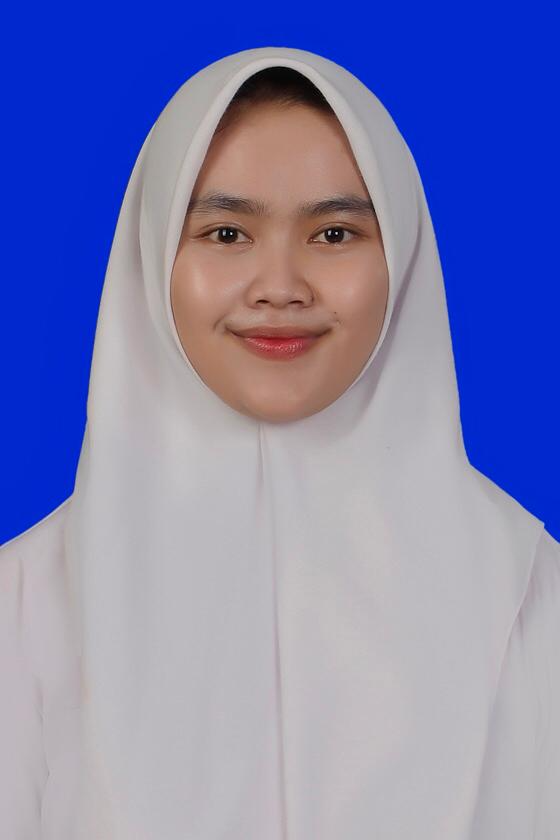
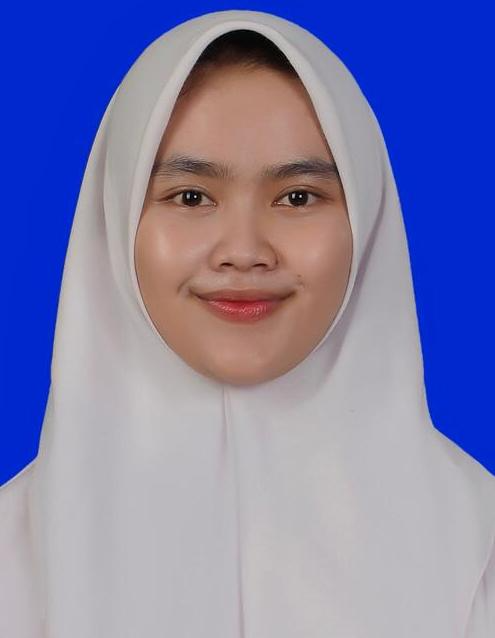
async, await, dan satu try/catch

Changed region(s): [[0.0, 0.0, 1.0, 0.8339], [0.9697, 0.8636, 1.0, 0.9232], [0.4848, 0.9828, 0.5152, 1.0]]

diff --git a/P10-25523222/css/responsif.css b/P10-25523222/css/responsif.css
@@ -1,59 +1,89 @@
+
 /* RESPONSIF.CSS — Pertemuan 6 */
 /* Mobile-first responsive design */
 
-/* Base — Mobile */
-
+/* Tampilan dasar: satu kolom */
 main {
-  grid-template-columns: 1fr;
+  display: grid;
+  grid-template-columns: minmax(0, 1fr);
   width: 100%;
   max-width: 1200px;
+  margin-inline: auto;
   padding: var(--space-4);
+  gap: var(--space-4);
 }
 
 main > section,
 main > article,
 main > aside,
 main > details {
-  min-width: 0;
-  overflow-wrap: anywhere;
-}
-
-.sidebar {
+  box-sizing: border-box;
   width: 100%;
   min-width: 0;
-}
-
-.kartu {
-  width: 100%;
-  max-width: 100%;
-  min-width: 0;
+  overflow-wrap: break-word;
 }
 
 img {
+  display: block;
   max-width: 100%;
   height: auto;
+}
+
+.kepala {
+  box-sizing: border-box;
+  width: 100%;
+}
+
+.kepala nav ul {
+  display: flex;
+  flex-wrap: wrap;
+  gap: var(--space-md);
 }
 
 .foto {
   width: 100%;
   max-width: 480px;
+  margin-inline: auto;
 }
 
 .foto img {
+  display: block;
+  width: 100%;
+  height: auto;
+  object-fit: cover;
+}
+
+.kartu {
+  box-sizing: border-box;
   width: 100%;
   max-width: 100%;
-  height: auto;
+  min-width: 0;
+  overflow-wrap: break-word;
+}
+
+#filter {
+  display: flex;
+  flex-wrap: wrap;
+  gap: var(--space-sm);
+}
+
+#daftar {
+  display: grid;
+  grid-template-columns: minmax(0, 1fr);
+  gap: var(--space-md);
+  padding-left: 1.5rem;
 }
 
 .table-wrap {
   width: 100%;
+  min-width: 0;
   overflow-x: auto;
   -webkit-overflow-scrolling: touch;
 }
 
 table {
   width: 100%;
-  max-width: 100%;
+  border-collapse: collapse;
 }
 
 p {
@@ -61,60 +91,31 @@ p {
   line-height: 1.6;
 }
 
-/* Breakpoint 48rem — 768px */
-
+/* Tablet */
 @media (min-width: 48rem) {
-
   main {
-    grid-template-columns: 1fr;
     padding: var(--space-lg);
+    gap: var(--space-lg);
   }
 
-  #karya {
-    display: grid;
-    grid-template-columns: repeat(2, 1fr);
-    gap: var(--space-4);
-  }
-
-  #karya h2 {
-    grid-column: 1 / -1;
+  #daftar {
+    grid-template-columns: repeat(2, minmax(0, 1fr));
   }
 }
 
-/* Breakpoint 60rem — 960px */
-
+/* Desktop */
 @media (min-width: 60rem) {
-
   main {
-    grid-template-columns: 16rem minmax(0, 1fr);
+    grid-template-columns: minmax(0, 1fr);
   }
 
-  #tentang,
-  #karya,
-  #kontak,
-  #tanya-jawab,
-  #keterampilan,
-  #lini-masa {
-    grid-column: 2;
-  }
-
-  #karya {
-    grid-template-columns: repeat(3, 1fr);
-  }
-
-  #karya h2 {
-    grid-column: 1 / -1;
-  }
-
-  .sidebar {
-    width: 100%;
+  #daftar {
+    grid-template-columns: repeat(3, minmax(0, 1fr));
   }
 }
 
 /* Layar kecil */
-
 @media (max-width: 30rem) {
-
   .kepala {
     padding: var(--space-md);
   }
@@ -131,15 +132,82 @@ p {
     padding: var(--space-md);
   }
 
-  .foto {
-    max-width: 100%;
+  #daftar {
+    grid-template-columns: minmax(0, 1fr);
   }
+}
 
-  .foto img {
-    max-width: 100%;
-  }
+/* Perbaikan sementara layout profil */
+main {
+  display: grid;
+  grid-template-columns: minmax(0, 1fr);
+  align-items: start;
+}
 
-  .table-wrap {
-    overflow-x: auto;
-  }
+main > section {
+  position: static;
+  box-sizing: border-box;
+  width: 100%;
+  min-width: 0;
+  height: auto;
+  min-height: 0;
+}
+
+#tentang,
+#karya,
+#kontak,
+#tanya-jawab,
+#keterampilan,
+#lini-masa {
+  display: block;
+  grid-column: 1;
+  position: static;
+  width: 100%;
+  height: auto;
+  min-height: 0;
+}
+
+#filter {
+  display: flex;
+  flex-wrap: wrap;
+  gap: 0.5rem;
+}
+
+#daftar {
+  display: block;
+}
+
+#daftar .kartu {
+  margin-bottom: 0.75rem;
+}
+
+.foto {
+  display: block;
+  width: 100%;
+  max-width: 480px;
+  height: auto;
+}
+
+.foto img {
+  display: block;
+  width: 100%;
+  max-width: 480px;
+  height: auto;
+  object-fit: contain;
+}
+/* Ukuran foto profil berbentuk kotak */
+.foto {
+  width: 220px;
+  max-width: 100%;
+  margin: 0 auto var(--space-4);
+}
+
+.foto img {
+  width: 220px;
+  max-width: 100%;
+  aspect-ratio: 1 / 1;
+  height: auto;
+  object-fit: cover;
+  object-position: center;
+  border-radius: var(--radius-md);
 }

diff --git a/P10-25523222/css/layout.css b/P10-25523222/css/layout.css
@@ -63,18 +63,32 @@ main > details {
   overflow-wrap: anywhere;
 }
 
-/* Foto */
+/* Foto profil berbentuk kotak */
 .foto {
   width: 100%;
-  max-width: 480px;
-  margin: 0;
+  max-width: 220px;
+  margin: 0 auto var(--space-4);
 }
 
 .foto img {
-  width: 100%;
-  max-width: 480px;
-  height: auto;
+  display: block;
+  width: 220px;
+  height: 220px;
+  max-width: 100%;
+  object-fit: cover;
+  object-position: center 15%;
+  border-radius: var(--radius-md);
 }
+
+/* Keterangan foto */
+.foto figcaption {
+  margin-top: var(--space-2);
+  text-align: center;
+  font-size: var(--text-sm);
+  line-height: 1.4;
+  white-space: nowrap;
+}
+
 
 /* Timeline */
 .timeline {
@@ -119,4 +133,24 @@ td {
   align-items: center;
   padding: var(--space-lg);
   text-align: center;
+}
+
+/* Foto */
+.foto {
+  width: 100%;
+  max-width: 480px;
+  margin: 0;
+}
+
+.foto img {
+  width: 100%;
+  max-width: 480px;
+  height: auto;
+}
+
+/* Paragraf setelah foto melebar */
+#tentang > p {
+  max-width: 100%;
+  width: 100%;
+  margin-top: var(--space-4);
 }

diff --git a/P10-25523222/profil.html b/P10-25523222/profil.html
@@ -1,4 +1,3 @@
-```html
 <!DOCTYPE html>
 <!--
   PROFIL — PABW 2026/2027 — P09
@@ -260,9 +259,9 @@
     </p>
   </footer>
 
-  <!-- JavaScript P09 -->
-  <script type="module" src="Js/app.js"></script>
-  <script type="module" src="Js/dom.js"></script>
+
+<script type="module" src="js/app.js"></script>
+<script type="module" src="js/dom.js"></script>
 
 </body>
 </html>

diff --git a/P10-25523222/Js/api.js b/P10-25523222/Js/api.js
@@ -1,5 +1,5 @@
 
-const ALAMAT = `"https://jsonplaceholder.typicode.com/posts"`;
+const ALAMAT = "https://jsonplaceholder.typicode.com/posts";
 
 export async function ambilNotisia() {
   try {
